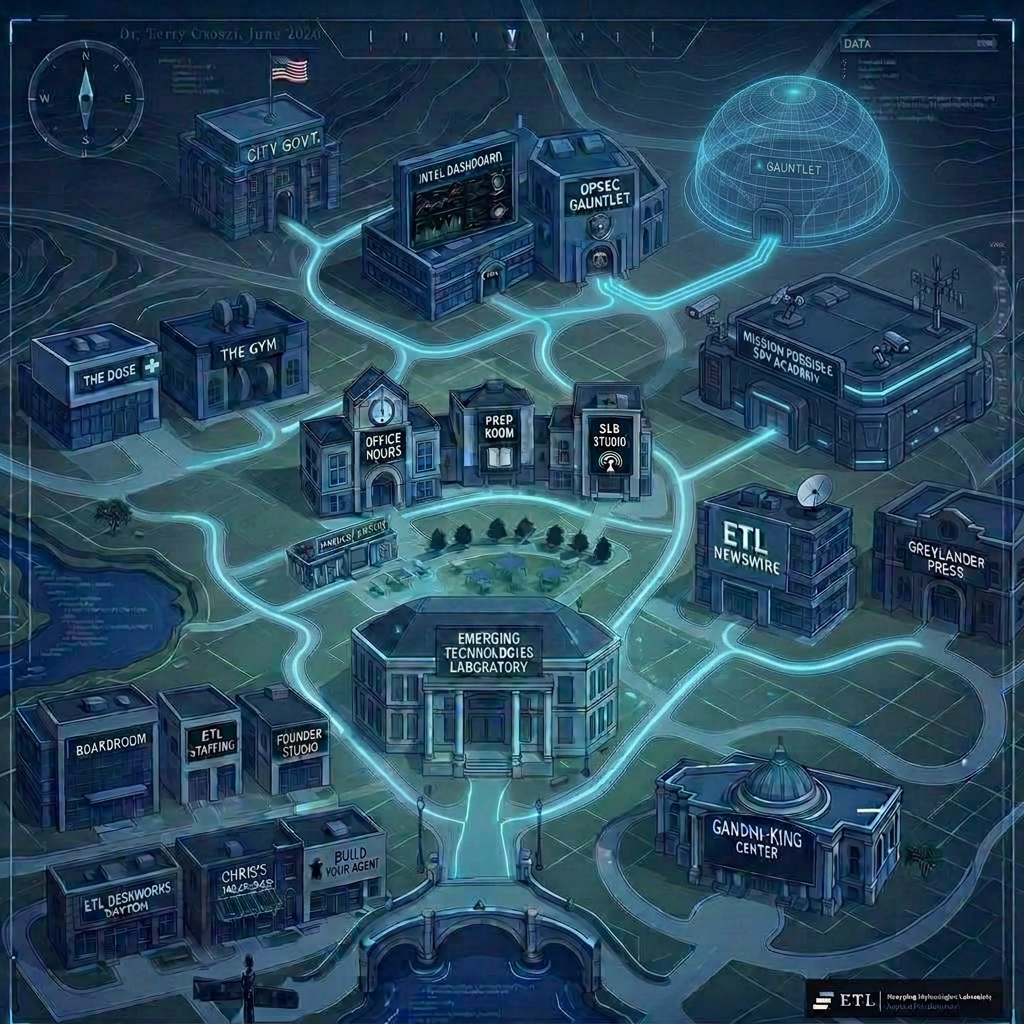
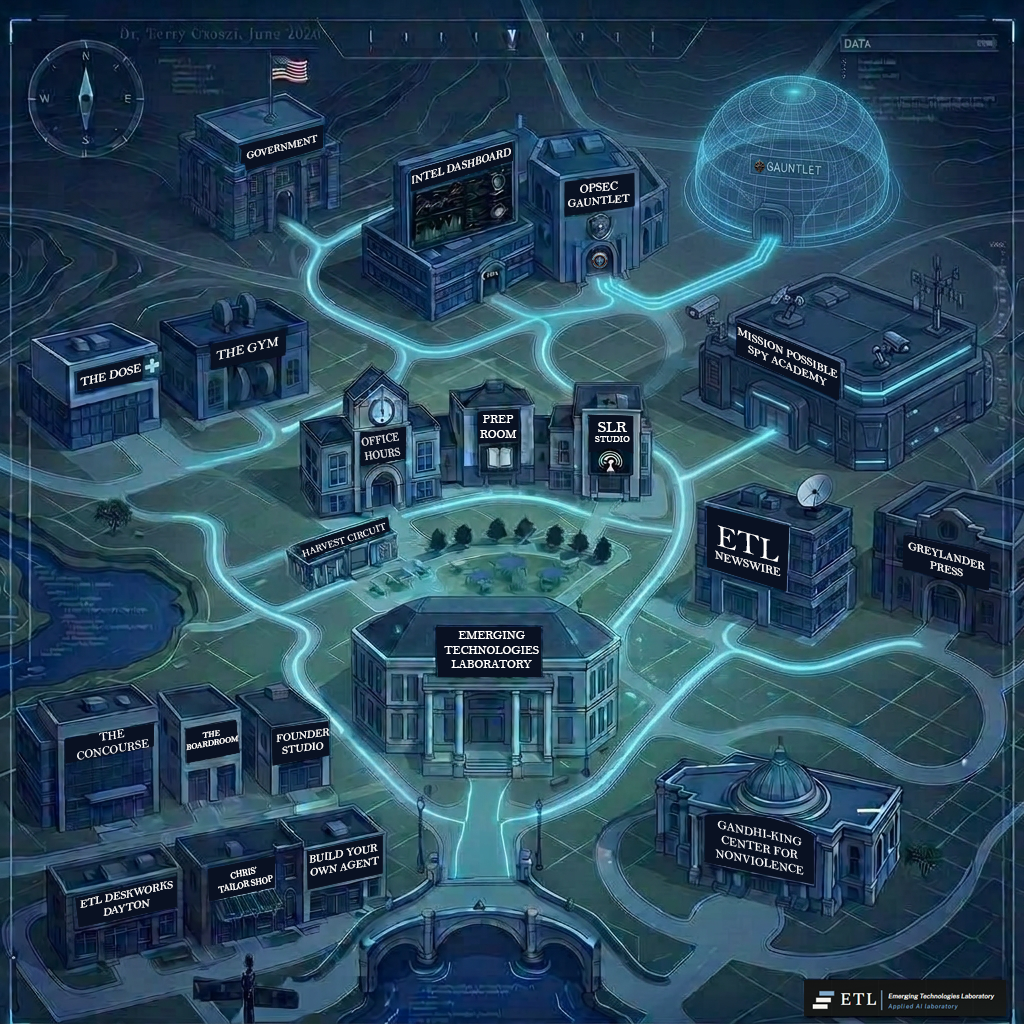
New tech map (08-03-2026), and fix the waypoint row it would have broken
Replaces tech-map.png with the relabelled art. Same base render and the same
building positions, so the waypoint graph survives; what changed is that the
garbled generated labels are now legible typeset ones.

One row did move. The old art read Boardroom / ETL Staffing / Founder Studio
left to right along the bottom left, and node 16 (Boardroom) sat on the
leftmost building. The new art reads Concourse / Boardroom / Founder Studio,
so the leftmost building is now the Concourse. Traded the coordinates for
nodes 16 and 17 and left a note for the next art swap: nothing throws when
this is wrong, agents just stand in the wrong building on the broadcast.

Cache tag bumped to v=20260803 so the new art actually shows.

diff --git a/neighborhood.html b/neighborhood.html
@@ -83,7 +83,7 @@
 <div id="map-title"><span class="pulse"></span> ETL Agents — Live Campus <span class="pulse"></span></div>
 <div id="wrap">
   <canvas id="map-bg" width="1200" height="900"></canvas>
-  <img id="tech-map-overlay" src="/tech-map.png?v=20260720" alt="">
+  <img id="tech-map-overlay" src="/tech-map.png?v=20260803" alt="">
   <canvas id="map-fg" width="1200" height="900"></canvas>
   <button id="legend-btn" onclick="document.getElementById('legend-modal').classList.toggle('open')">◆ KEY</button>
   <div id="legend-modal">
@@ -154,8 +154,16 @@ const N = [
   [1082,492], // 13 Greylander Press
   [596,548],  // 14 ETL Building
   [926,506],  // 15 SE Junction
-  [132,718],  // 16 Boardroom
-  [278,718],  // 17 The Concourse
+  // SWAPPED 2026-08-03 with the new tech-map.png. The old art labelled the
+  // bottom-left row Boardroom / ETL Staffing / Founder Studio, left to right,
+  // and node 16 sat on the leftmost building. The new art relabels that row
+  // Concourse / Boardroom / Founder Studio, so the leftmost building is now
+  // the Concourse and these two coordinates had to trade places. Positions
+  // are unchanged, only which node claims which building. If the map art is
+  // ever replaced again, re-check this row before pushing: nothing errors when
+  // it is wrong, agents just stand in the wrong building on the broadcast.
+  [278,718],  // 16 Boardroom      (middle building)
+  [132,718],  // 17 The Concourse  (leftmost building)
   [390,688],  // 18 Founder Studio
   [455,768],  // 19 SW Junction
   [155,818],  // 20 ETL Deskworks Dayton  ← HUB
